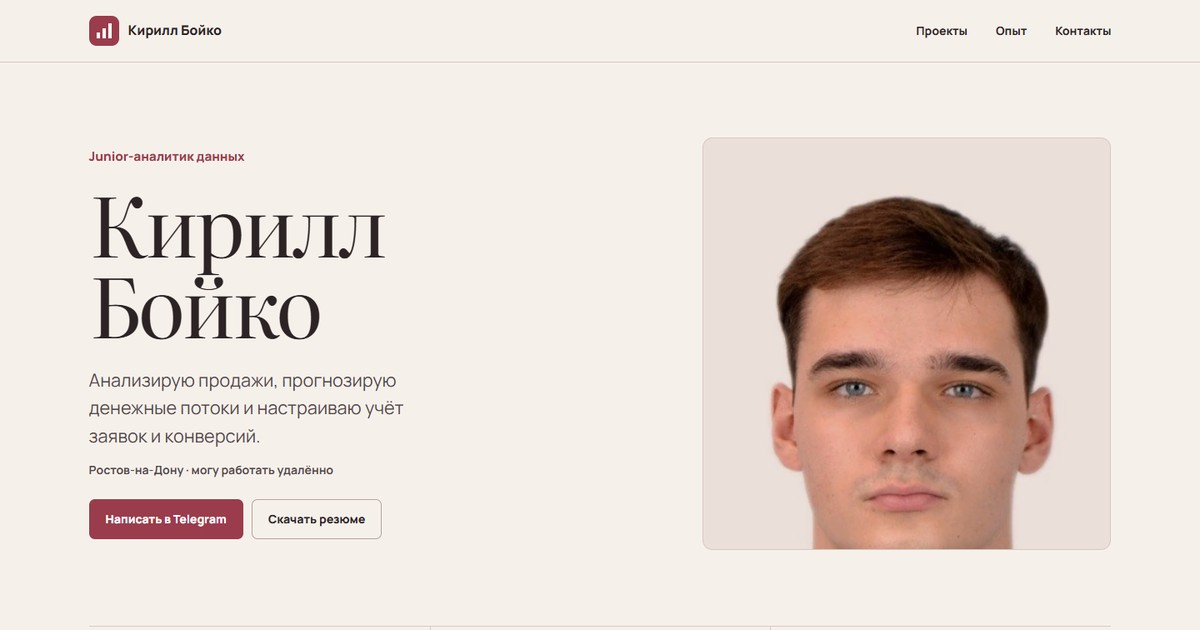
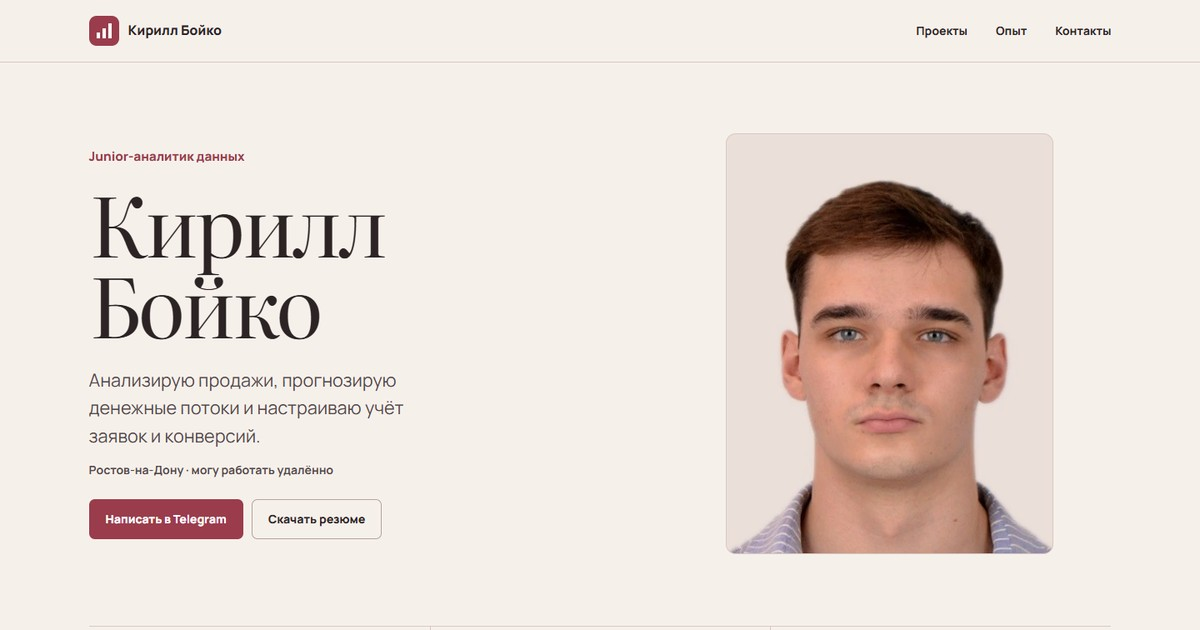
Fit the complete portrait in short and mobile viewports

Changed region(s): [[0.6167, 0.2714, 0.8942, 0.9048]]

diff --git a/style.css b/style.css
@@ -104,18 +104,24 @@ main:focus-visible { outline-offset: -2px; }
 .hero__actions, .contact-actions { display: flex; flex-wrap: wrap; gap: 10px; margin-top: 24px; }
 .hero__portrait {
   grid-area: portrait;
-  justify-self: end;
-  display: grid;
-  justify-items: center;
-  width: min(100%, 490px);
-  height: clamp(290px, 55svh, 505px);
+  justify-self: center;
+  position: relative;
+  width: min(100%, clamp(220px, 44svh, 393px));
+  aspect-ratio: 413 / 531;
   overflow: hidden;
   isolation: isolate;
   background: #ebdfda;
   border: 1px solid var(--line);
   border-radius: var(--radius);
 }
-.hero__portrait img { width: 100%; height: 100%; object-fit: contain; object-position: center; mix-blend-mode: multiply; }
+.hero__portrait img {
+  position: absolute;
+  inset: 0;
+  width: 100%;
+  height: 100%;
+  object-fit: contain;
+  mix-blend-mode: multiply;
+}
 .hero-proof {
   grid-area: proof;
   display: grid;
@@ -206,8 +212,7 @@ main:focus-visible { outline-offset: -2px; }
   .hero__identity { align-self: center; }
   .hero__kicker { margin-bottom: 10px; font-size: .8125rem; }
   h1 { font-size: clamp(2.5rem, 11.4vw, 5rem); }
-  .hero__portrait { height: auto; aspect-ratio: .84; }
-  .hero__portrait img { aspect-ratio: .84; object-fit: cover; }
+  .hero__portrait { width: 100%; }
   .hero__lead { margin-top: 20px; max-width: 46ch; font-size: 1.0625rem; }
   .hero__location { margin-top: 10px; font-size: .8125rem; }
   .hero__actions { display: grid; grid-template-columns: minmax(0, 1.16fr) minmax(0, 1fr); gap: 8px; margin-top: 18px; }

diff --git a/index.html b/index.html
@@ -13,13 +13,13 @@
   <meta property="og:title" content="Кирилл Бойко — аналитик данных">
   <meta property="og:description" content="SQL, Python и DataLens. Проекты по анализу продаж и прогнозированию, коммерческий опыт и контакты.">
   <meta property="og:url" content="https://kiboiko.github.io/portfolio/">
-  <meta property="og:image" content="https://kiboiko.github.io/portfolio/share.jpg">
+  <meta property="og:image" content="https://kiboiko.github.io/portfolio/share.jpg?v=portrait-fit">
   <meta name="twitter:card" content="summary_large_image">
   <link rel="canonical" href="https://kiboiko.github.io/portfolio/">
   <link rel="icon" href="assets/mark.svg" type="image/svg+xml">
   <link rel="stylesheet" href="assets/motion/motion.css">
   <link rel="stylesheet" href="assets/moments/word-highlight/moment.css">
-  <link rel="stylesheet" href="style.css?v=portrait">
+  <link rel="stylesheet" href="style.css?v=portrait-fit">
   <script>document.documentElement.classList.add('m-enter');setTimeout(()=>document.documentElement.classList.add('m-enter-done'),700)</script>
   <script type="module" src="assets/motion/motion.js"></script>
   <script type="module" src="assets/moments/moments.js"></script>
